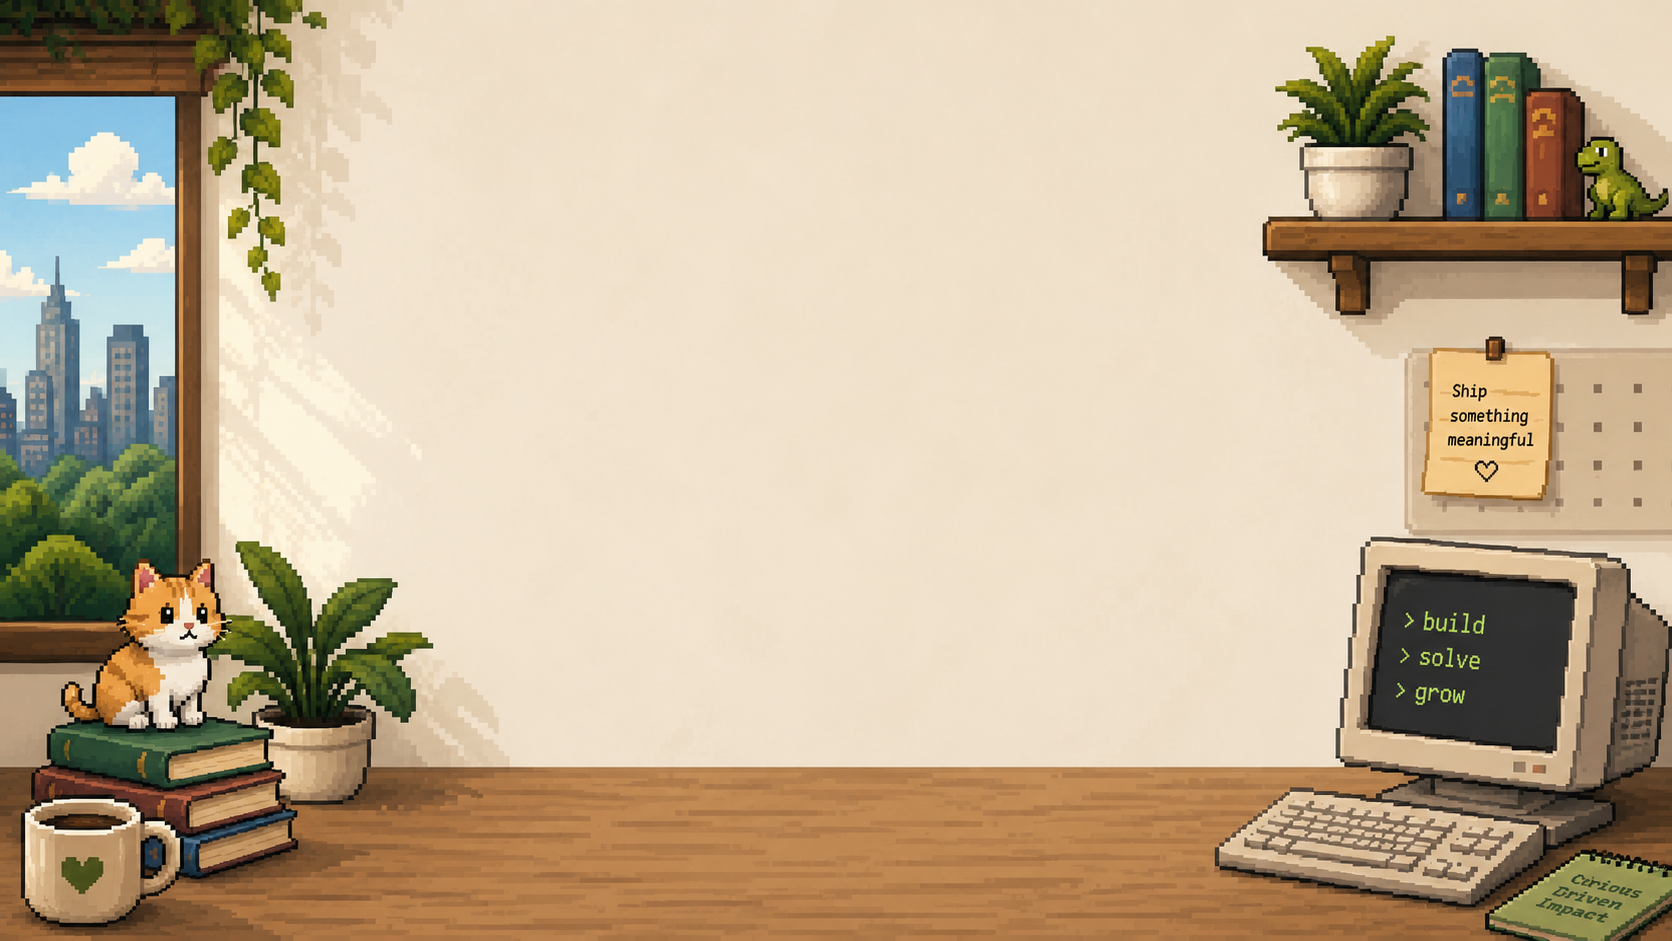
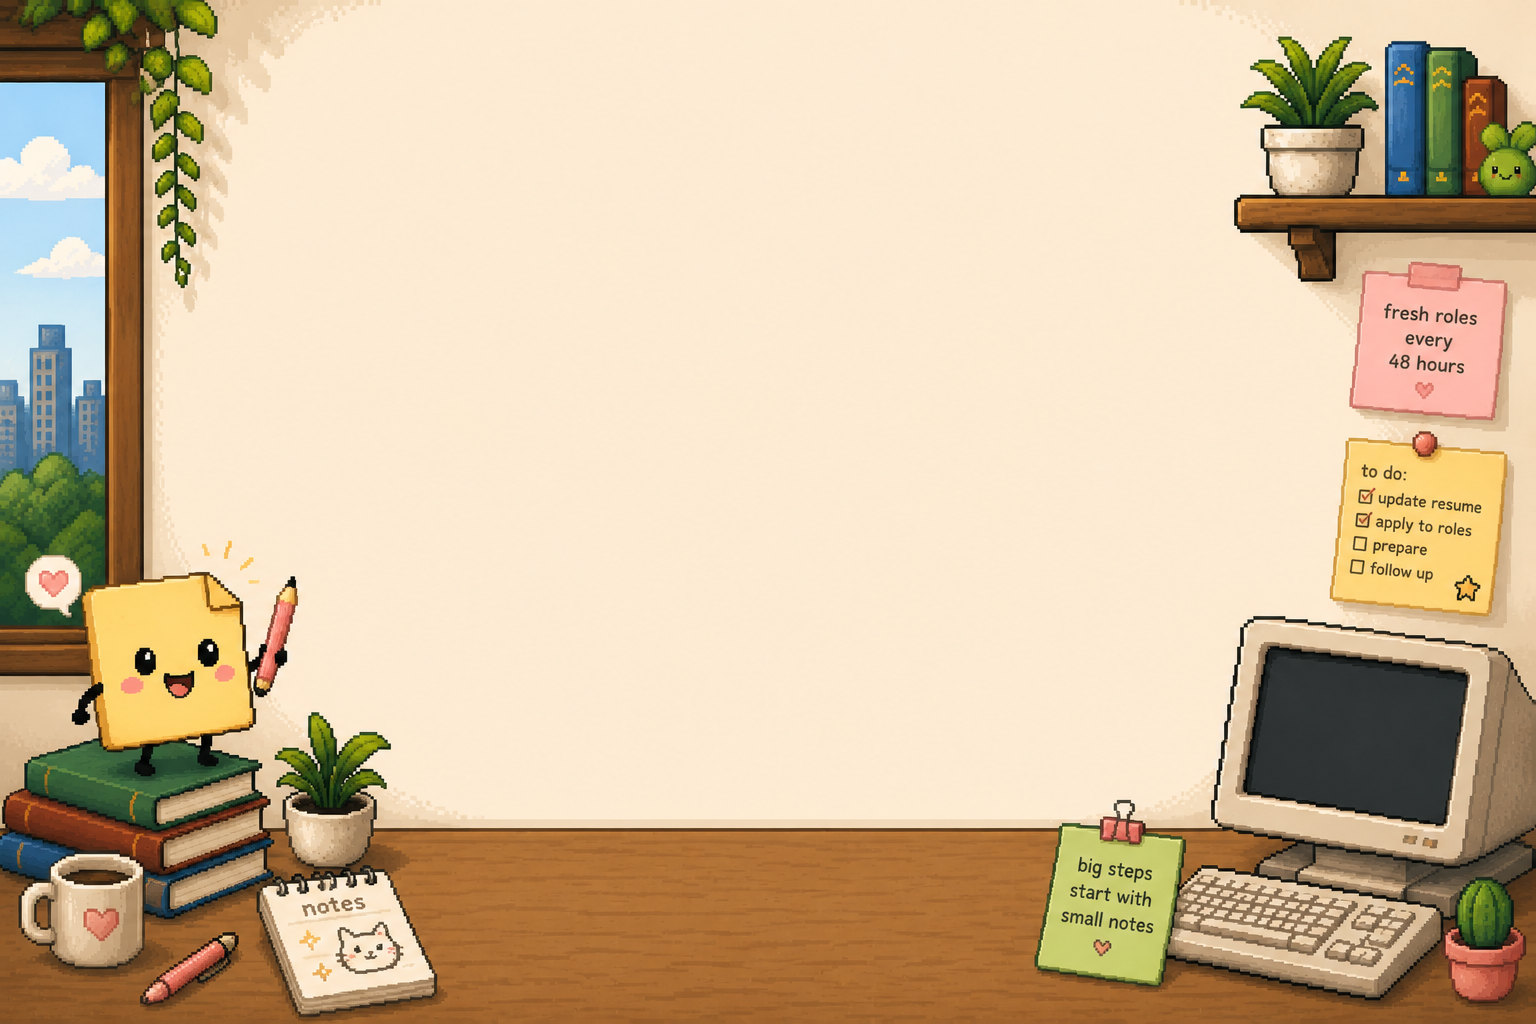
feat: redesign job board homepage

diff --git a/web/src/lib/job-board.ts b/web/src/lib/job-board.ts
@@ -8,6 +8,7 @@ export interface BoardJob {
   title: string;
   category: Exclude<BoardCategory, "All Roles">;
   description: string;
+  location: string;
   locationType: LocationType;
   jobType: JobType;
   isHot: boolean;
@@ -58,10 +59,11 @@ export const MOCK_BOARD_JOBS: BoardJob[] = [
     id: "mock-ml-engineer",
     title: "Machine Learning Engineer",
     category: "AI/ML",
-    description: "Build models that power intelligent product workflows.",
+    description: "Work on AI systems and product-grade model workflows at JobClaw Demo.",
+    location: "Remote",
     locationType: "Remote",
     jobType: "Full-time",
-    isHot: true,
+    isHot: false,
     applicationUrl: "https://example.com/apply/machine-learning-engineer",
     postedAt: "2026-06-06",
     source: "Company Careers",
@@ -71,10 +73,11 @@ export const MOCK_BOARD_JOBS: BoardJob[] = [
     id: "mock-ai-intern",
     title: "AI Engineer Intern",
     category: "Internships",
-    description: "Evaluate AI systems for real-world product use cases.",
+    description: "Early-career AI role focused on evaluation, tooling, and applied product use cases.",
+    location: "Remote",
     locationType: "Remote",
     jobType: "Internship",
-    isHot: true,
+    isHot: false,
     applicationUrl: "https://example.com/apply/ai-engineer-intern",
     postedAt: "2026-06-06",
     source: "Company Careers",
@@ -84,7 +87,8 @@ export const MOCK_BOARD_JOBS: BoardJob[] = [
     id: "mock-data-scientist",
     title: "Data Scientist",
     category: "AI/ML",
-    description: "Surface actionable insights from product and marketplace data.",
+    description: "Use product and marketplace data to ship sharper insights for real teams.",
+    location: "Remote",
     locationType: "Remote",
     jobType: "Full-time",
     isHot: false,
@@ -97,10 +101,11 @@ export const MOCK_BOARD_JOBS: BoardJob[] = [
     id: "mock-founding-ai-engineer",
     title: "Founding AI Engineer",
     category: "Engineering",
-    description: "Own core AI infrastructure from prototype to production.",
+    description: "Own core AI infrastructure from prototype through reliable production systems.",
+    location: "San Francisco, CA",
     locationType: "Hybrid",
     jobType: "Full-time",
-    isHot: true,
+    isHot: false,
     applicationUrl: "https://example.com/apply/founding-ai-engineer",
     postedAt: "2026-06-05",
     source: "Company Careers",
@@ -110,10 +115,11 @@ export const MOCK_BOARD_JOBS: BoardJob[] = [
     id: "mock-product-designer",
     title: "Product Designer",
     category: "Design",
-    description: "Design polished product flows from research to final UI.",
+    description: "Shape product flows from user research through polished, shippable UI.",
+    location: "Remote",
     locationType: "Remote",
     jobType: "Full-time",
-    isHot: true,
+    isHot: false,
     applicationUrl: "https://example.com/apply/product-designer",
     postedAt: "2026-06-04",
     source: "Company Careers",
@@ -123,7 +129,8 @@ export const MOCK_BOARD_JOBS: BoardJob[] = [
     id: "mock-product-manager",
     title: "Product Manager",
     category: "Product",
-    description: "Shape roadmap strategy and ship products people rely on.",
+    description: "Guide roadmap, customer insight, and execution for a focused product team.",
+    location: "New York, NY",
     locationType: "Hybrid",
     jobType: "Full-time",
     isHot: false,
@@ -136,7 +143,8 @@ export const MOCK_BOARD_JOBS: BoardJob[] = [
     id: "mock-growth-marketer",
     title: "Growth Marketer",
     category: "Growth",
-    description: "Run lifecycle experiments across acquisition and retention.",
+    description: "Run acquisition, lifecycle, and retention experiments with measurable impact.",
+    location: "Remote",
     locationType: "Remote",
     jobType: "Contract",
     isHot: false,
@@ -184,6 +192,13 @@ function classifyJobType(job: ApiJob): JobType {
   return "Full-time";
 }
 
+function cleanLocation(location?: string): string {
+  const raw = location?.replace(/\s+/g, " ").trim();
+  if (!raw) return "Location TBD";
+
+  return raw.length > 42 ? `${raw.slice(0, 39).trim()}...` : raw;
+}
+
 function sourceLabel(source?: string): string {
   if (!source) return "Company Careers";
   const labels: Record<string, string> = {
@@ -202,11 +217,51 @@ function sourceLabel(source?: string): string {
   return labels[source] || source.replace(/[-_]/g, " ");
 }
 
-function cleanDescription(job: ApiJob): string {
+function roleDescription(job: ApiJob, category: BoardJob["category"]): string {
+  const company = job.company?.trim() || "the hiring team";
+
+  if (category === "Internships") {
+    return `Early-career role at ${company} focused on learning, shipping, and real product work.`;
+  }
+
+  if (category === "AI/ML") {
+    return `Work on AI, data, and model-driven systems with ${company}.`;
+  }
+
+  if (category === "Design") {
+    return `Shape user-facing product experiences at ${company} from research to polished UI.`;
+  }
+
+  if (category === "Product") {
+    return `Guide roadmap, customer insight, and execution for ${company}.`;
+  }
+
+  if (category === "Growth") {
+    return `Grow ${company} through acquisition, lifecycle, and retention experiments.`;
+  }
+
+  return `Build production software and reliable systems with ${company}.`;
+}
+
+function looksLikeNoisyDescription(raw: string): boolean {
+  const text = raw.toLowerCase();
+  return (
+    text.startsWith("http") ||
+    text.includes("click here") ||
+    text.includes("apply now") ||
+    text.includes("job search") ||
+    text.includes("jobs hiring") ||
+    text.includes("salary estimate")
+  );
+}
+
+function cleanDescription(job: ApiJob, category: BoardJob["category"]): string {
   const raw = job.description?.replace(/\s+/g, " ").trim();
-  if (raw && raw.length > 12) return raw.length > 112 ? `${raw.slice(0, 109).trim()}...` : raw;
-  if (job.company) return `Join ${job.company} to build thoughtful products and systems.`;
-  return "Build and ship meaningful work with a high-quality team.";
+  if (raw && raw.length > 24 && !looksLikeNoisyDescription(raw)) {
+    return raw.length > 118 ? `${raw.slice(0, 115).trim()}...` : raw;
+  }
+
+  return roleDescription(job, category);
 }
 
 function isHotJob(job: ApiJob): boolean {
@@ -219,11 +274,14 @@ function isHotJob(job: ApiJob): boolean {
 }
 
 export function mapApiJobToBoardJob(job: ApiJob, index: number): BoardJob {
+  const category = classifyCategory(job);
+
   return {
     id: job.internal_hash || job.job_id || `api-job-${index}`,
     title: job.title || "Untitled Role",
-    category: classifyCategory(job),
-    description: cleanDescription(job),
+    category,
+    description: cleanDescription(job, category),
+    location: cleanLocation(job.location),
     locationType: classifyLocation(job.location),
     jobType: classifyJobType(job),
     isHot: isHotJob(job),

diff --git a/web/src/components/job-board/JobBoard.tsx b/web/src/components/job-board/JobBoard.tsx
@@ -57,33 +57,33 @@ export default function JobBoard() {
   const rangeEnd = Math.min(filteredJobs.length, page * JOBS_PER_PAGE);
 
   return (
-    <section className="mx-auto flex h-full w-full max-w-[920px] flex-col justify-center px-4 py-4 sm:px-6">
-      <div className="mb-4 text-center sm:mb-5">
-        <h1 className="mx-auto max-w-[760px] text-4xl font-bold leading-[0.95] tracking-[-0.04em] text-black drop-shadow-[0_2px_18px_rgba(255,255,255,0.75)] sm:text-5xl lg:text-6xl">
-          Curated tech roles for{" "}
+    <section className="mx-auto flex h-full w-full max-w-[880px] flex-col justify-center px-4 py-3 sm:px-6">
+      <div className="mb-3 text-center sm:mb-4">
+        <h1 className="mx-auto max-w-[720px] text-3xl font-bold leading-[0.96] text-black drop-shadow-[0_2px_18px_rgba(255,255,255,0.75)] sm:text-4xl lg:text-5xl">
+          Fresh tech roles,{" "}
           <span className="relative inline-block">
-            builders
-            <span className="absolute -bottom-1 left-0 -z-10 h-2.5 w-full rounded-full bg-lime-200/80" aria-hidden="true" />
+            every 48 hours
+            <span className="absolute -bottom-1 left-0 -z-10 h-2 w-full rounded-full bg-lime-200/80" aria-hidden="true" />
           </span>
         </h1>
-        <p className="mx-auto mt-3 max-w-[620px] text-sm leading-6 text-zinc-600 drop-shadow-[0_1px_10px_rgba(255,255,255,0.85)] sm:text-base">
-          JobClaw shows accepted jobs first discovered in the last {BOARD_FRESHNESS_HOURS} hours, refreshed with the
-          same cadence as our Discord alerts.
+        <p className="mx-auto mt-2 max-w-[580px] text-xs leading-5 text-zinc-600 drop-shadow-[0_1px_10px_rgba(255,255,255,0.85)] sm:text-sm">
+          JobClaw surfaces direct company and ATS roles discovered in the last {BOARD_FRESHNESS_HOURS} hours, cleaned
+          for real applications and refreshed with our Discord alerts.
         </p>
-        <div className="mt-2">
+        <div className="mt-1.5">
           <RefreshInfo lastRefreshed={lastRefreshed} status={dataStatus} />
         </div>
       </div>
 
-      <div className="mb-3">
+      <div className="mb-2">
         <CategoryTabs jobs={jobs} activeCategory={activeCategory} onChange={setActiveCategory} />
       </div>
 
-      <div className="overflow-hidden rounded-2xl border border-black/10 bg-white/88 shadow-[0_18px_70px_rgba(41,29,12,0.18)] backdrop-blur-md">
+      <div className="overflow-hidden rounded-2xl border border-black/10 bg-white/90 shadow-[0_18px_70px_rgba(41,29,12,0.18)] backdrop-blur-md">
         {loading ? (
           <div className="divide-y divide-zinc-200/80">
             {Array.from({ length: JOBS_PER_PAGE }).map((_, index) => (
-              <div key={index} className="grid h-[54px] gap-3 px-4 py-3 sm:px-5 lg:grid-cols-[1fr_auto] lg:items-center">
+              <div key={index} className="grid h-[48px] gap-3 px-4 py-2 sm:px-5 lg:grid-cols-[1fr_auto] lg:items-center">
                 <div className="space-y-2">
                   <div className="h-4 w-52 max-w-full animate-pulse rounded-full bg-zinc-100" />
                   <div className="h-3 w-[min(420px,100%)] animate-pulse rounded-full bg-zinc-100" />
@@ -103,7 +103,7 @@ export default function JobBoard() {
             ))}
           </div>
         ) : (
-          <div className="flex h-[540px] items-center justify-center px-6 text-center">
+          <div className="flex h-[480px] items-center justify-center px-6 text-center">
             <p className="max-w-sm text-sm font-semibold leading-6 text-zinc-800 sm:text-base">
               {dataStatus === "unavailable"
                 ? "JobClaw is waiting for the backend API. Check the API URL or Railway deployment."
@@ -114,7 +114,7 @@ export default function JobBoard() {
           </div>
         )}
 
-        <div className="flex h-12 items-center justify-between border-t border-zinc-200/80 px-4 sm:px-5">
+        <div className="flex h-10 items-center justify-between border-t border-zinc-200/80 px-4 sm:px-5">
           <p className="text-xs font-medium text-zinc-500">
             Page {filteredJobs.length ? page : 0} of {filteredJobs.length ? totalPages : 0}
           </p>

diff --git a/web/src/components/job-board/JobRow.tsx b/web/src/components/job-board/JobRow.tsx
@@ -9,23 +9,20 @@ interface JobRowProps {
 
 export default function JobRow({ job }: JobRowProps) {
   return (
-    <article className="group grid min-h-[54px] gap-2 border-b border-zinc-200/80 px-4 py-2.5 transition-colors duration-200 last:border-b-0 hover:bg-amber-50/45 sm:px-5 lg:grid-cols-[minmax(0,1fr)_auto] lg:items-center lg:gap-5">
+    <article className="group grid min-h-[48px] gap-2 border-b border-zinc-200/80 px-4 py-2 transition-colors duration-200 last:border-b-0 hover:bg-amber-50/45 sm:px-5 lg:grid-cols-[minmax(0,1fr)_auto] lg:items-center lg:gap-5">
       <div className="min-w-0">
         <div className="flex min-w-0 items-center gap-2">
           <h2 className="truncate text-sm font-semibold tracking-tight text-zinc-900 sm:text-[15px]">{job.title}</h2>
-          {job.isHot && (
-            <Badge tone="hot" icon="hot">
-              Hot
-            </Badge>
-          )}
         </div>
-        <p className="mt-0.5 line-clamp-1 max-w-2xl text-xs text-zinc-500 sm:text-[13px]">{job.description}</p>
+        <p className="mt-0.5 line-clamp-1 max-w-2xl text-[11px] leading-4 text-zinc-500 sm:text-xs">
+          {job.description}
+        </p>
       </div>
 
-      <div className="flex items-center gap-2">
-        <div className="flex min-w-0 flex-wrap items-center gap-2">
-          <Badge tone={locationTone(job.locationType)} icon="location">
-            {job.locationType}
+      <div className="flex min-w-0 items-center gap-2 lg:justify-end">
+        <div className="flex min-w-0 flex-nowrap items-center gap-2">
+          <Badge tone={locationTone(job.locationType)} icon="location" className="max-w-[168px] truncate sm:max-w-[210px]">
+            {job.location}
           </Badge>
           <Badge tone="neutral" icon="clock">
             {job.jobType}

diff --git a/web/src/components/job-board/Badge.tsx b/web/src/components/job-board/Badge.tsx
@@ -1,16 +1,17 @@
-import { Clock, Flame, MapPin } from "lucide-react";
+import { Clock, MapPin } from "lucide-react";
 
 import { cn } from "@/lib/utils";
 import type { LocationType } from "@/lib/job-board";
 
 interface BadgeProps {
   children: React.ReactNode;
-  tone?: "neutral" | "remote" | "hybrid" | "hot";
-  icon?: "location" | "clock" | "hot";
+  tone?: "neutral" | "remote" | "hybrid";
+  icon?: "location" | "clock";
+  className?: string;
 }
 
-export default function Badge({ children, tone = "neutral", icon }: BadgeProps) {
-  const Icon = icon === "location" ? MapPin : icon === "clock" ? Clock : icon === "hot" ? Flame : null;
+export default function Badge({ children, tone = "neutral", icon, className }: BadgeProps) {
+  const Icon = icon === "location" ? MapPin : icon === "clock" ? Clock : null;
 
   return (
     <span
@@ -19,7 +20,7 @@ export default function Badge({ children, tone = "neutral", icon }: BadgeProps) 
         tone === "neutral" && "border-zinc-200 bg-zinc-100 text-zinc-600",
         tone === "remote" && "border-emerald-200 bg-emerald-50 text-emerald-700",
         tone === "hybrid" && "border-blue-200 bg-blue-50 text-blue-700",
-        tone === "hot" && "border-amber-200 bg-amber-50 text-orange-600",
+        className,
       )}
     >
       {Icon && <Icon className="h-3 w-3" aria-hidden="true" />}

diff --git a/web/src/app/page.tsx b/web/src/app/page.tsx
@@ -3,7 +3,7 @@ import JobBoard from "@/components/job-board/JobBoard";
 export default function HomePage() {
   return (
     <main
-      className="h-screen overflow-hidden bg-[#f6e8cc] bg-cover bg-center bg-no-repeat text-zinc-950"
+      className="h-dvh overflow-hidden bg-[#f6e8cc] bg-cover bg-center bg-no-repeat text-zinc-950"
       style={{ backgroundImage: "url('/images/jobclaw-room-bg.png')" }}
     >
       <JobBoard />